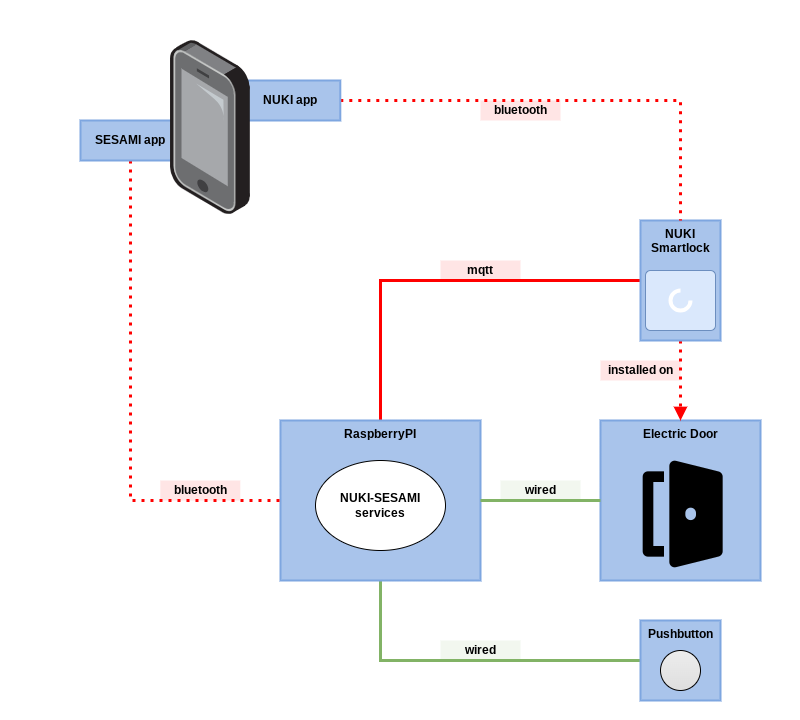
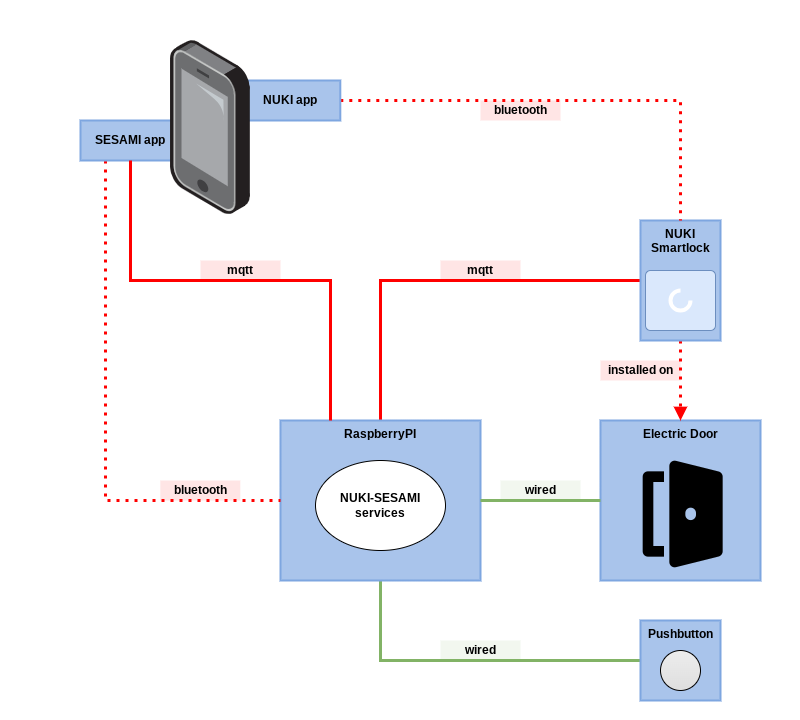
Publish nuki-sesami package on mqtt

Changed region(s): [[0.1562, 0.3361, 0.4062, 0.3972], [0.4062, 0.3972, 0.4375, 0.5806], [0.1562, 0.6722, 0.1875, 0.7028]]

diff --git a/src/nuki_sesami/controller.py b/src/nuki_sesami/controller.py
@@ -30,6 +30,12 @@ async def mqtt_publish_nuki_lock_action(client: aiomqtt.Client, device: str, log
     await client.publish(topic, action.value, retain=True)
 
 
+async def mqtt_publish_sesami_version(client: aiomqtt.Client, device: str, logger: Logger, version: str):
+    topic = f"sesami/{device}/version"
+    logger.info('[mqtt] publish %s=%s (retain)', topic, version)
+    await client.publish(topic, version, retain=True)
+
+
 async def mqtt_publish_sesami_state(client: aiomqtt.Client, device: str, logger: Logger, state: DoorState):
     topic = f"sesami/{device}/state"
     logger.info('[mqtt] publish %s=%s:%i (retain)', topic, state.name, state.value)
@@ -89,8 +95,9 @@ class ElectricDoor:
     Subscribes as client to MQTT door status topic from 'Nuki 3.0 pro' smart lock. When the lock has been opened
     it will activate a relay, e.g. using the 'RPi Relay Board', triggering the electric door to open.
     '''
-    def __init__(self, logger: Logger, config: SesamiConfig):
+    def __init__(self, logger: Logger, config: SesamiConfig, version: str):
         self._logger = logger
+        self._version = version
         self._nuki_device = config.nuki_device
         self._nuki_state = NukiLockState.undefined
         self._nuki_doorsensor = NukiDoorsensorState.unknown
@@ -141,6 +148,9 @@ class ElectricDoor:
         for name, state in [('opendoor', 0), ('openhold', 0), ('openclose', 1)]:
             self.run_coroutine(mqtt_publish_sesami_relay_state(
                 self._mqtt, self.nuki_device, name, self.logger, state, retain=True))
+            
+        self.run_coroutine(mqtt_publish_sesami_version(
+            self._mqtt, self.nuki_device, self.logger, self.version))
 
         self.run_coroutine(mqtt_publish_sesami_state(
             self._mqtt, self.nuki_device, self.logger, self.state))
@@ -155,6 +165,10 @@ class ElectricDoor:
     @property
     def logger(self) -> Logger:
         return self._logger
+    
+    @property
+    def version(self) -> str:
+        return self._version
 
     @property
     def loop(self) -> asyncio.AbstractEventLoop:
@@ -315,8 +329,8 @@ class ElectricDoorPushbuttonOpenHold(ElectricDoor):
 
     When pressing the pushbutton the door will be opened and held open until the pushbutton is pressed again.
     '''
-    def __init__(self, logger: logging.Logger, config: SesamiConfig):
-        super().__init__(logger, config)
+    def __init__(self, logger: logging.Logger, config: SesamiConfig, version: str):
+        super().__init__(logger, config, version)
 
     def _next_door_state(self, state: DoorState) -> DoorState:
         return DoorState.openhold if state == DoorState.closed else DoorState.closed
@@ -341,8 +355,8 @@ class ElectricDoorPushbuttonOpen(ElectricDoor):
 
     When pressing the pushbutton the door will be opened for a few seconds after which it will be closed again.
     '''
-    def __init__(self, logger: logging.Logger, config: SesamiConfig):
-        super().__init__(logger, config)
+    def __init__(self, logger: logging.Logger, config: SesamiConfig, version: str):
+        super().__init__(logger, config, version)
 
     def on_pushbutton_pressed(self):
         if self._pushbutton_trigger != PUSHBUTTON_TRIGGER_UUID:
@@ -363,8 +377,8 @@ class ElectricDoorPushbuttonToggle(ElectricDoor):
     phase of the pushbutton is pressed again the door will be held open until the pushbutton
     is pressed again.
     '''
-    def __init__(self, logger: logging.Logger, config: SesamiConfig):
-        super().__init__(logger, config)
+    def __init__(self, logger: logging.Logger, config: SesamiConfig, version: str):
+        super().__init__(logger, config, version)
 
     def _next_door_state(self, state: DoorState) -> DoorState:
         return DoorState((state + 1) % len(DoorState))
@@ -399,13 +413,13 @@ async def mqtt_receiver(client: aiomqtt.Client, door: ElectricDoor):
             door.on_door_request(DoorRequestState(int(payload)))
 
 
-async def activate(logger: Logger, config):
+async def activate(logger: Logger, config: SesamiConfig, version: str):
     if config.pushbutton == PushbuttonLogic.open:
-        door = ElectricDoorPushbuttonOpen(logger, config)
+        door = ElectricDoorPushbuttonOpen(logger, config, version)
     elif config.pushbutton == PushbuttonLogic.toggle:
-        door = ElectricDoorPushbuttonToggle(logger, config)
+        door = ElectricDoorPushbuttonToggle(logger, config, version)
     else:
-        door = ElectricDoorPushbuttonOpenHold(logger, config)
+        door = ElectricDoorPushbuttonOpenHold(logger, config, version)
 
     async with aiomqtt.Client(config.mqtt_host, port=config.mqtt_port,
             username=config.mqtt_username, password=config.mqtt_password) as client:
@@ -467,7 +481,7 @@ def main():
     logger.info("gpio.openclose : %s", config.gpio_openclose_mode)
 
     try:
-        asyncio.run(activate(logger, config))
+        asyncio.run(activate(logger, config, version))
     except KeyboardInterrupt:
         logger.info("program terminated; keyboard interrupt")
     except Exception:

diff --git a/README.md b/README.md
@@ -10,7 +10,7 @@ An electric door somehow needs to receive trigger signals for it to be _opened_,
 
 The door will be _opened_ by the _Nuki Sesami_ service when the smart lock is _unlatched_ using the _Nuki Smartlock_ app. After a brief moment the door will close again.
 The door can also be  _opened_ **and** _held open_ by pressing a pushbutton connected to the _Raspberry Pi_ board on which the _Nuki Sesami_ service is running. When pressing this pushbutton again the door will be _closed_ again.
-Finally the door can be _opened_, _held open_ or _closed_ using the _Nuki Sesami_ smartphone app. Communication between the _Nuki Sesami_ service and the _Nuki 3.0_ smart lock is achived using the _mqtt_ protocol; e.g. by running a _Mosquitto_ (**mqtt**) broker on the _Raspberry Pi_ board.
+Finally the door can be _opened_, _held open_ or _closed_ using the _Nuki Sesami_ smartphone app. Communication between the _Nuki Sesami_ service and the _Nuki 3.0_ smart lock is achieved using the _mqtt_ protocol; e.g. by running a _Mosquitto_ (**mqtt**) broker on the _Raspberry Pi_ board. Communication between the _Nuki Sesami_ service and the _Nuki Sesami_ smartphone app can be achieved using the _mqtt_ protocol or using _bluetooth_.
 
 ## Requirements
 
